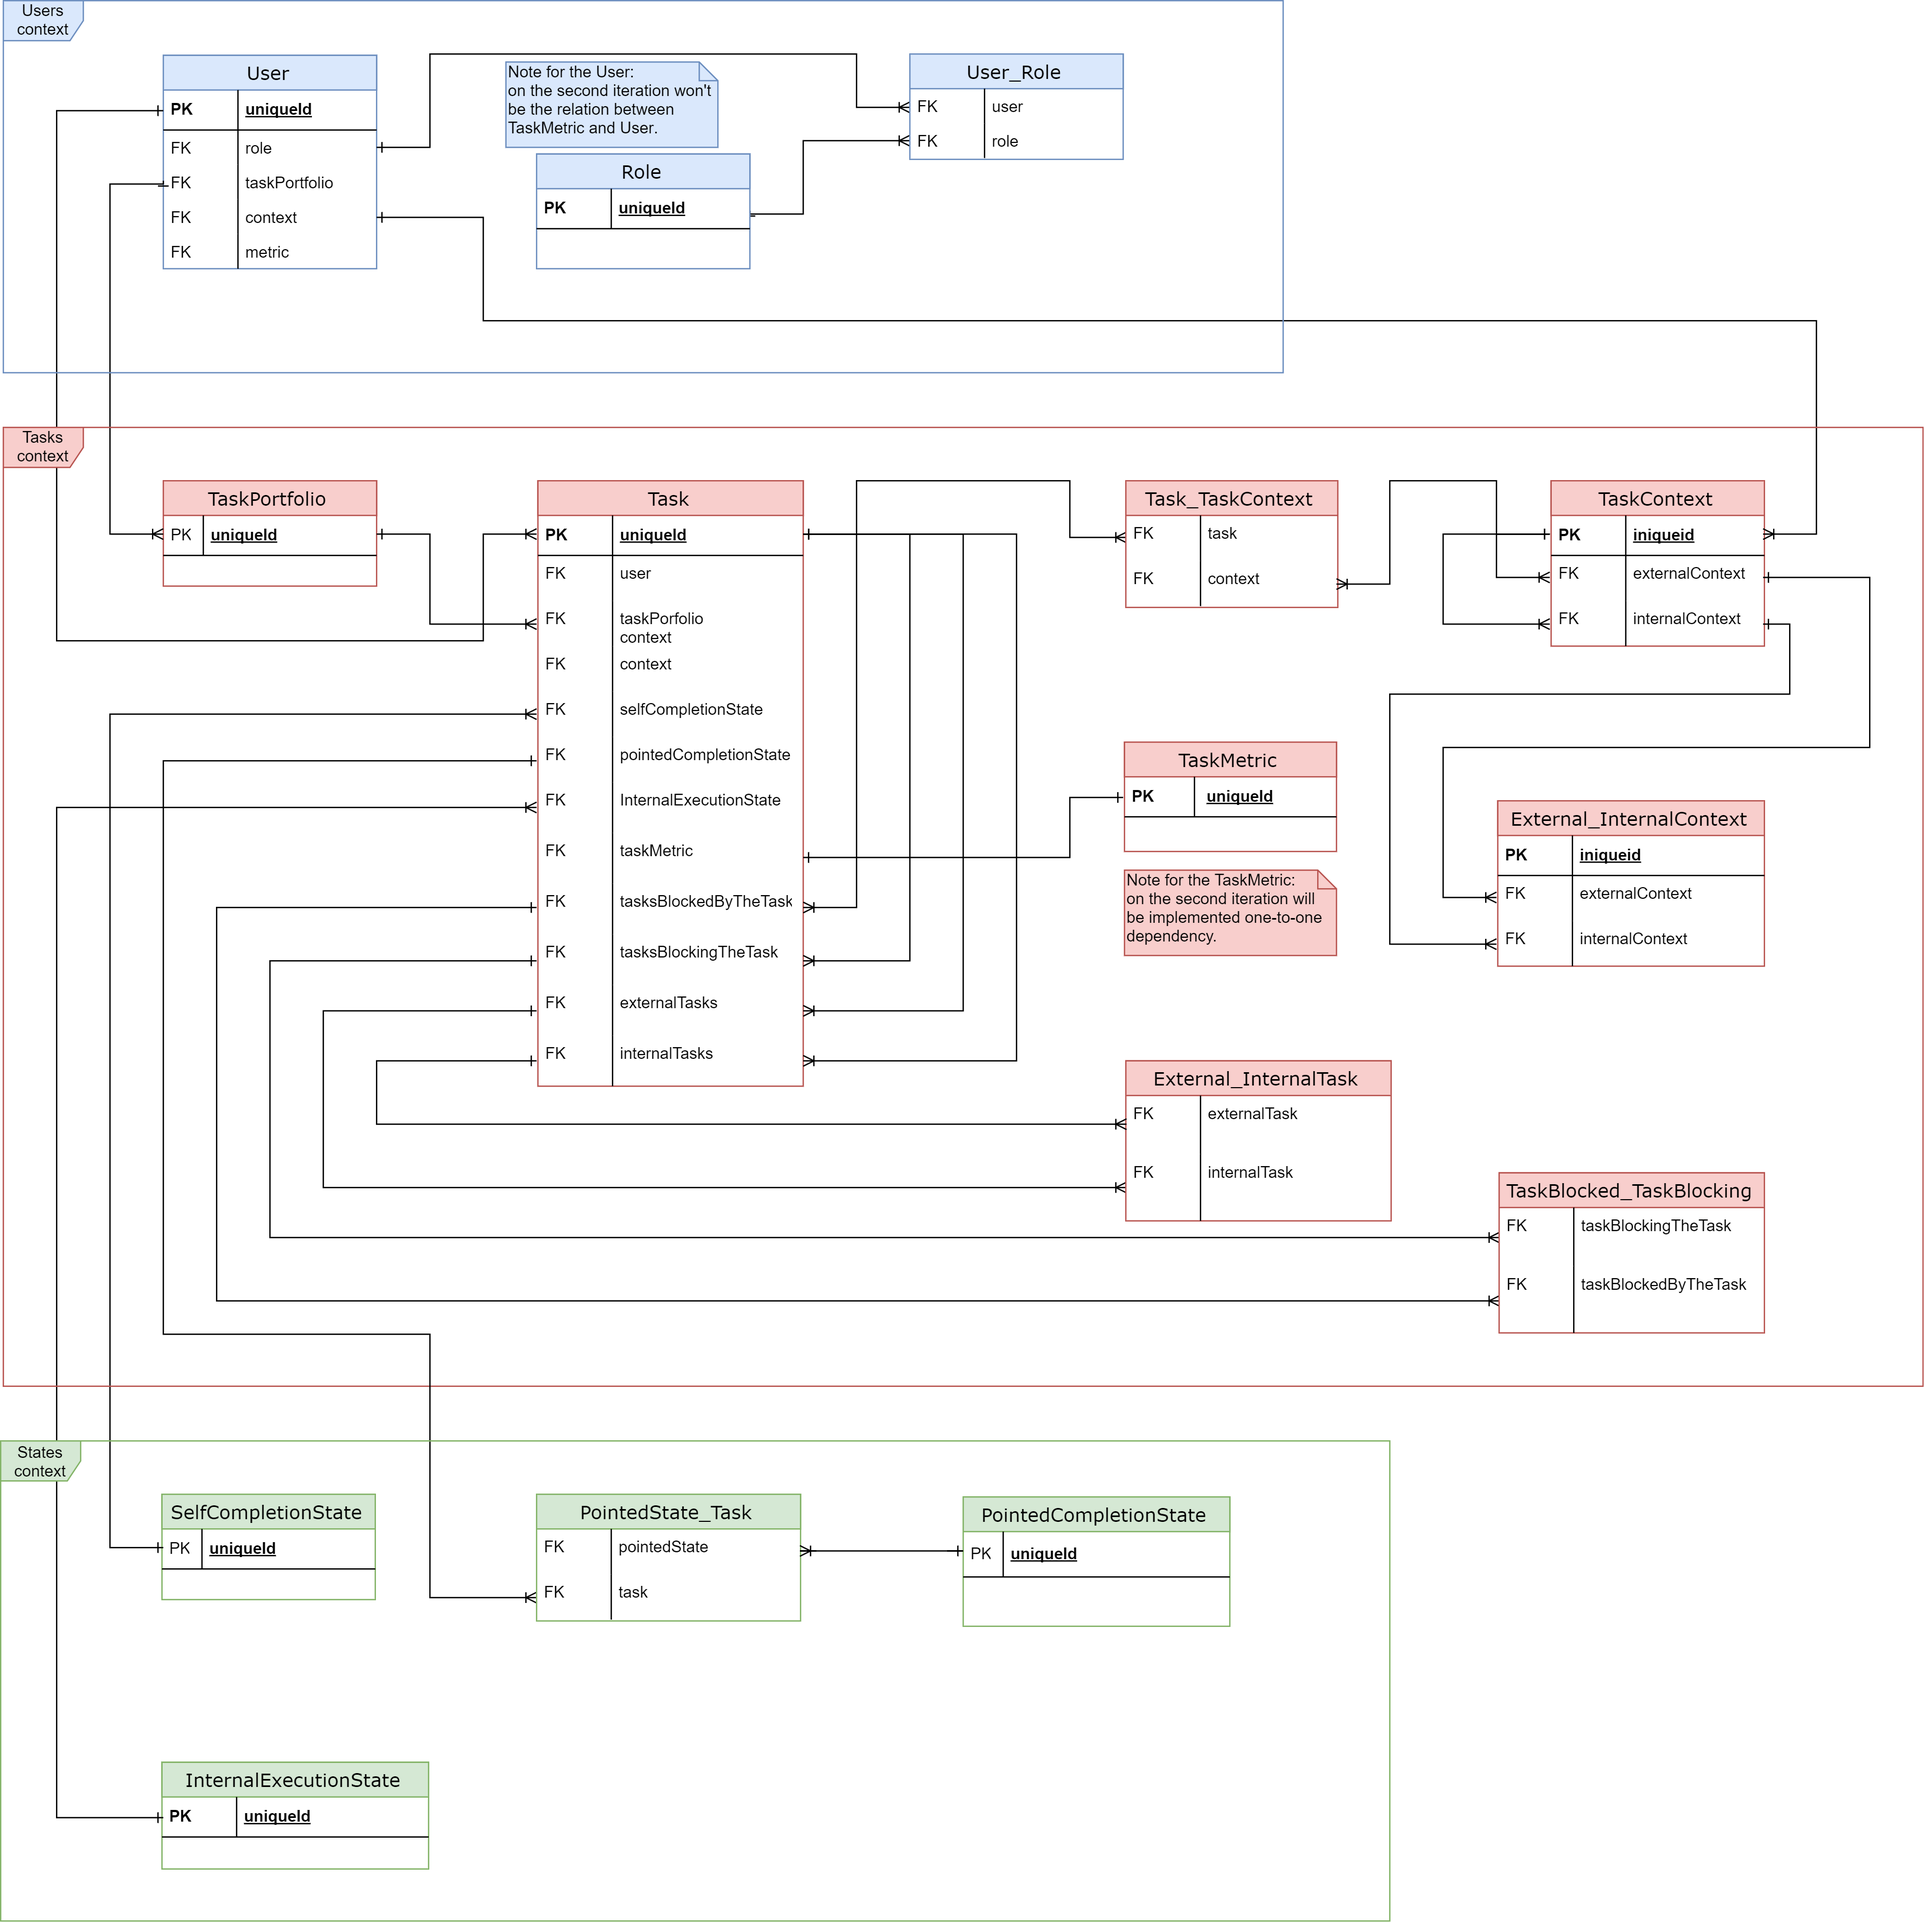
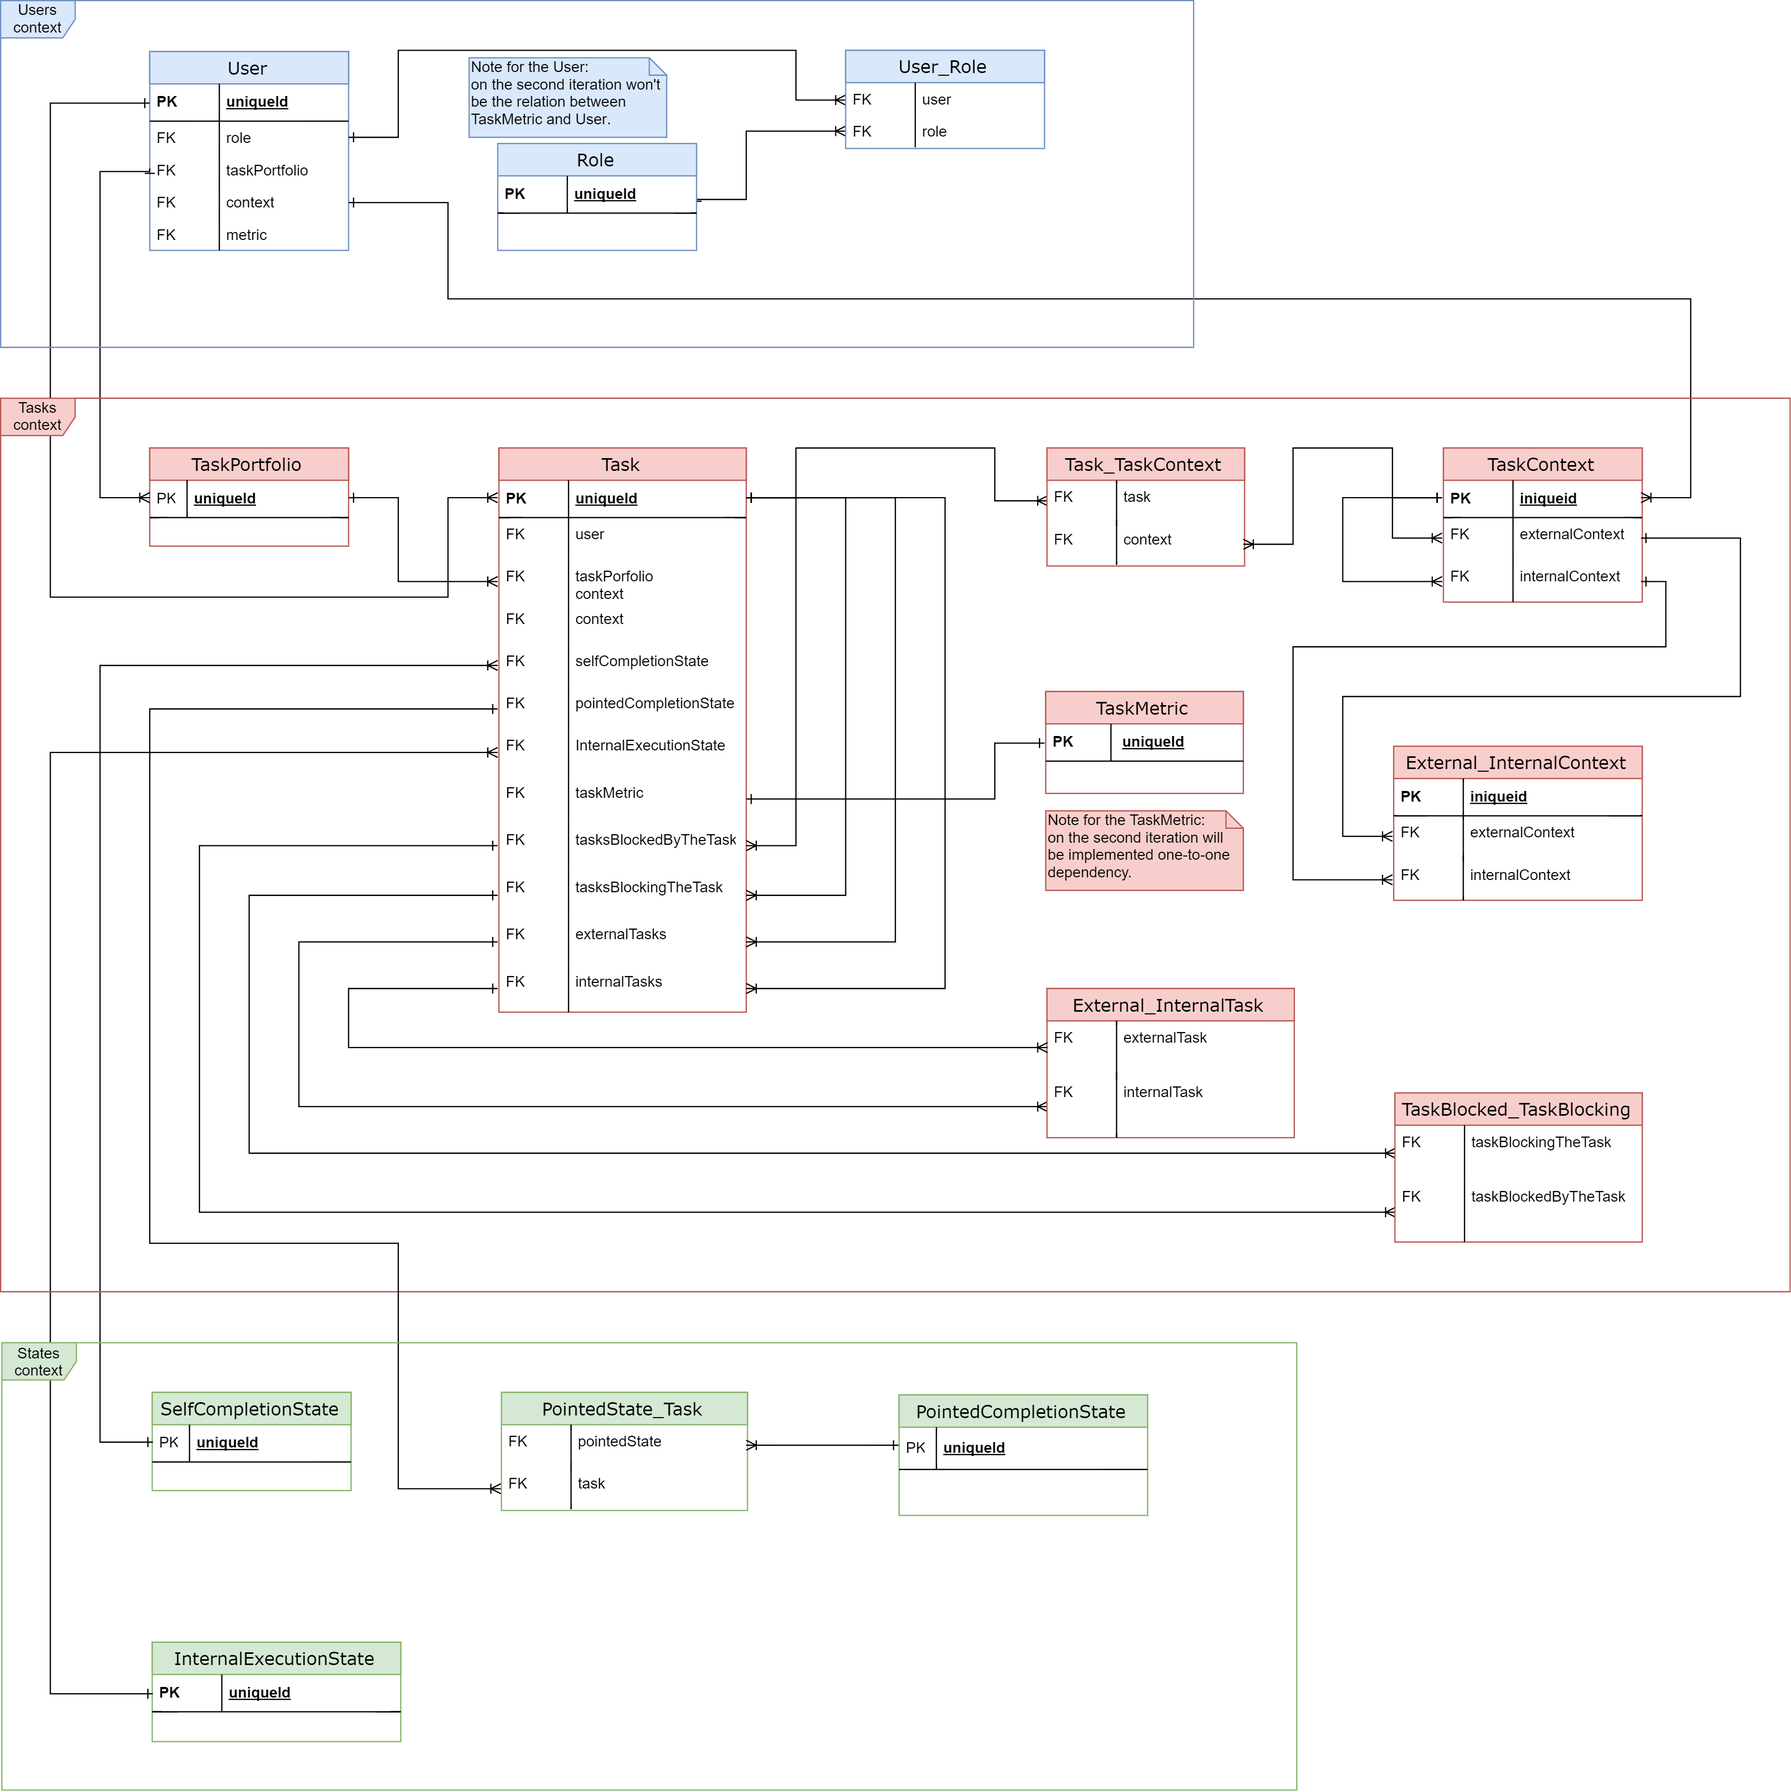
iterationSecond: EER completion of the model tier analysis classes have been completed: analysis classes of the model packages in the diagram (two pictures) have been upgraded; the db scheme has been upgraded; the Task and TaskContext have been supplemented.

diff --git a/src/main/java/com/meteoradesigner/model/Task.java b/src/main/java/com/meteoradesigner/model/Task.java
@@ -44,9 +44,16 @@ public class Task extends AbstractBaseEntity {
     private TaskPortfolio portfolio;
 
     private Set<Task> externalTasks;
+
     private Set<Task> internalTasks;
+
+    private Set<Task> tasksBlockedByTheTask;
+
+    private Set<Task> tasksBlockingTheTask;
+
     private Set<TaskContext> contexts;
-    private Set<TaskMetric> metrics;
+
+    private TaskMetric metrics;
 
     @NotNull
     private SelfCompletionState selfCompletionState;
@@ -66,20 +73,24 @@ public class Task extends AbstractBaseEntity {
                 .getPlannedStartTaskTimestamp(), taskCopy.getPlannedStopTaskTimestamp(), taskCopy
                 .getActualStartTaskTimestamp(), taskCopy.getActualStopTaskTimestamp(), taskCopy
                 .getPortfolio(), taskCopy.getExternalTasks(), taskCopy.getInternalTasks(),
+                taskCopy.getTasksBlockedByTheTask(), taskCopy.getTasksBlockedByTheTask(),
                 taskCopy.getContexts(), taskCopy.getMetrics(), taskCopy.getSelfCompletionState(),
                 taskCopy.getPointedCompletionStates(), taskCopy.getInternalExecutionState());
     }
 
+
     /**
      * The all-args constructor.
      */
-    public Task(Integer id, User user, String description, LocalDateTime
-            plannedStartTaskTimestamp, LocalDateTime plannedStopTaskTimestamp, LocalDateTime
-                        actualStartTaskTimestamp, LocalDateTime actualStopTaskTimestamp,
+    public Task(Integer id, @NotNull User user, @NotBlank @Size(min = 1, max = 6400000) String
+            description, @NotNull LocalDateTime plannedStartTaskTimestamp, @NotNull LocalDateTime
+                        plannedStopTaskTimestamp, @NotNull LocalDateTime
+                        actualStartTaskTimestamp, @NotNull LocalDateTime actualStopTaskTimestamp,
                 TaskPortfolio portfolio, Set<Task> externalTasks, Set<Task> internalTasks,
-                Set<TaskContext> contexts, Set<TaskMetric> metrics, SelfCompletionState
+                Set<Task> tasksBlockedByTheTask, Set<Task> tasksBlockingTheTask, Set<TaskContext>
+                        contexts, TaskMetric metrics, @NotNull SelfCompletionState
                         selfCompletionState, Set<PointedCompletionState> pointedCompletionStates,
-                InternalExecutionState internalExecutionState) {
+                @NotNull InternalExecutionState internalExecutionState) {
         super(id);
         this.user = user;
         this.description = description;
@@ -90,6 +101,8 @@ public class Task extends AbstractBaseEntity {
         this.portfolio = portfolio;
         this.externalTasks = externalTasks;
         this.internalTasks = internalTasks;
+        this.tasksBlockedByTheTask = tasksBlockedByTheTask;
+        this.tasksBlockingTheTask = tasksBlockingTheTask;
         this.contexts = contexts;
         this.metrics = metrics;
         this.selfCompletionState = selfCompletionState;
@@ -109,6 +122,8 @@ public class Task extends AbstractBaseEntity {
                 ", portfolio=" + portfolio +
                 ", externalTasks=" + externalTasks +
                 ", internalTasks=" + internalTasks +
+                ", tasksBlockedByTheTask=" + tasksBlockedByTheTask +
+                ", tasksBlockingTheTask=" + tasksBlockingTheTask +
                 ", contexts=" + contexts +
                 ", metrics=" + metrics +
                 ", selfCompletionState=" + selfCompletionState +

diff --git a/src/main/java/com/meteoradesigner/model/TaskContext.java b/src/main/java/com/meteoradesigner/model/TaskContext.java
@@ -25,7 +25,10 @@ public class TaskContext extends AbstractBaseEntity {
     private String description;
 
     private Set<TaskContext> externalContext;
+
     private Set<TaskContext> internalContext;
+
+    private Set<Task> tasks;
 
     /**
      * The deep copying constructor.
@@ -35,19 +38,21 @@ public class TaskContext extends AbstractBaseEntity {
         taskContextCopy.setId(0);
         new TaskContext(taskContextCopy.getId(), taskContextCopy.getUser(), taskContextCopy
                 .getDescription(), taskContextCopy.getExternalContext(), taskContextCopy
-                .getInternalContext());
+                .getInternalContext(), taskContextCopy.getTasks());
     }
 
     /**
      * The all-args constructor.
      */
     public TaskContext(Integer id, @NotNull User user, @NotNull @Size(min = 1, max = 6400) String
-            description, Set<TaskContext> externalContext, Set<TaskContext> internalContext) {
+            description, Set<TaskContext> externalContext, Set<TaskContext> internalContext,
+                       Set<Task> tasks) {
         super(id);
         this.user = user;
         this.description = description;
         this.externalContext = externalContext;
         this.internalContext = internalContext;
+        this.tasks = tasks;
     }
 
     @Override
@@ -57,6 +62,7 @@ public class TaskContext extends AbstractBaseEntity {
                 ", description='" + description + '\'' +
                 ", externalContext=" + externalContext +
                 ", internalContext=" + internalContext +
+                ", tasks=" + tasks +
                 '}';
     }
 }
